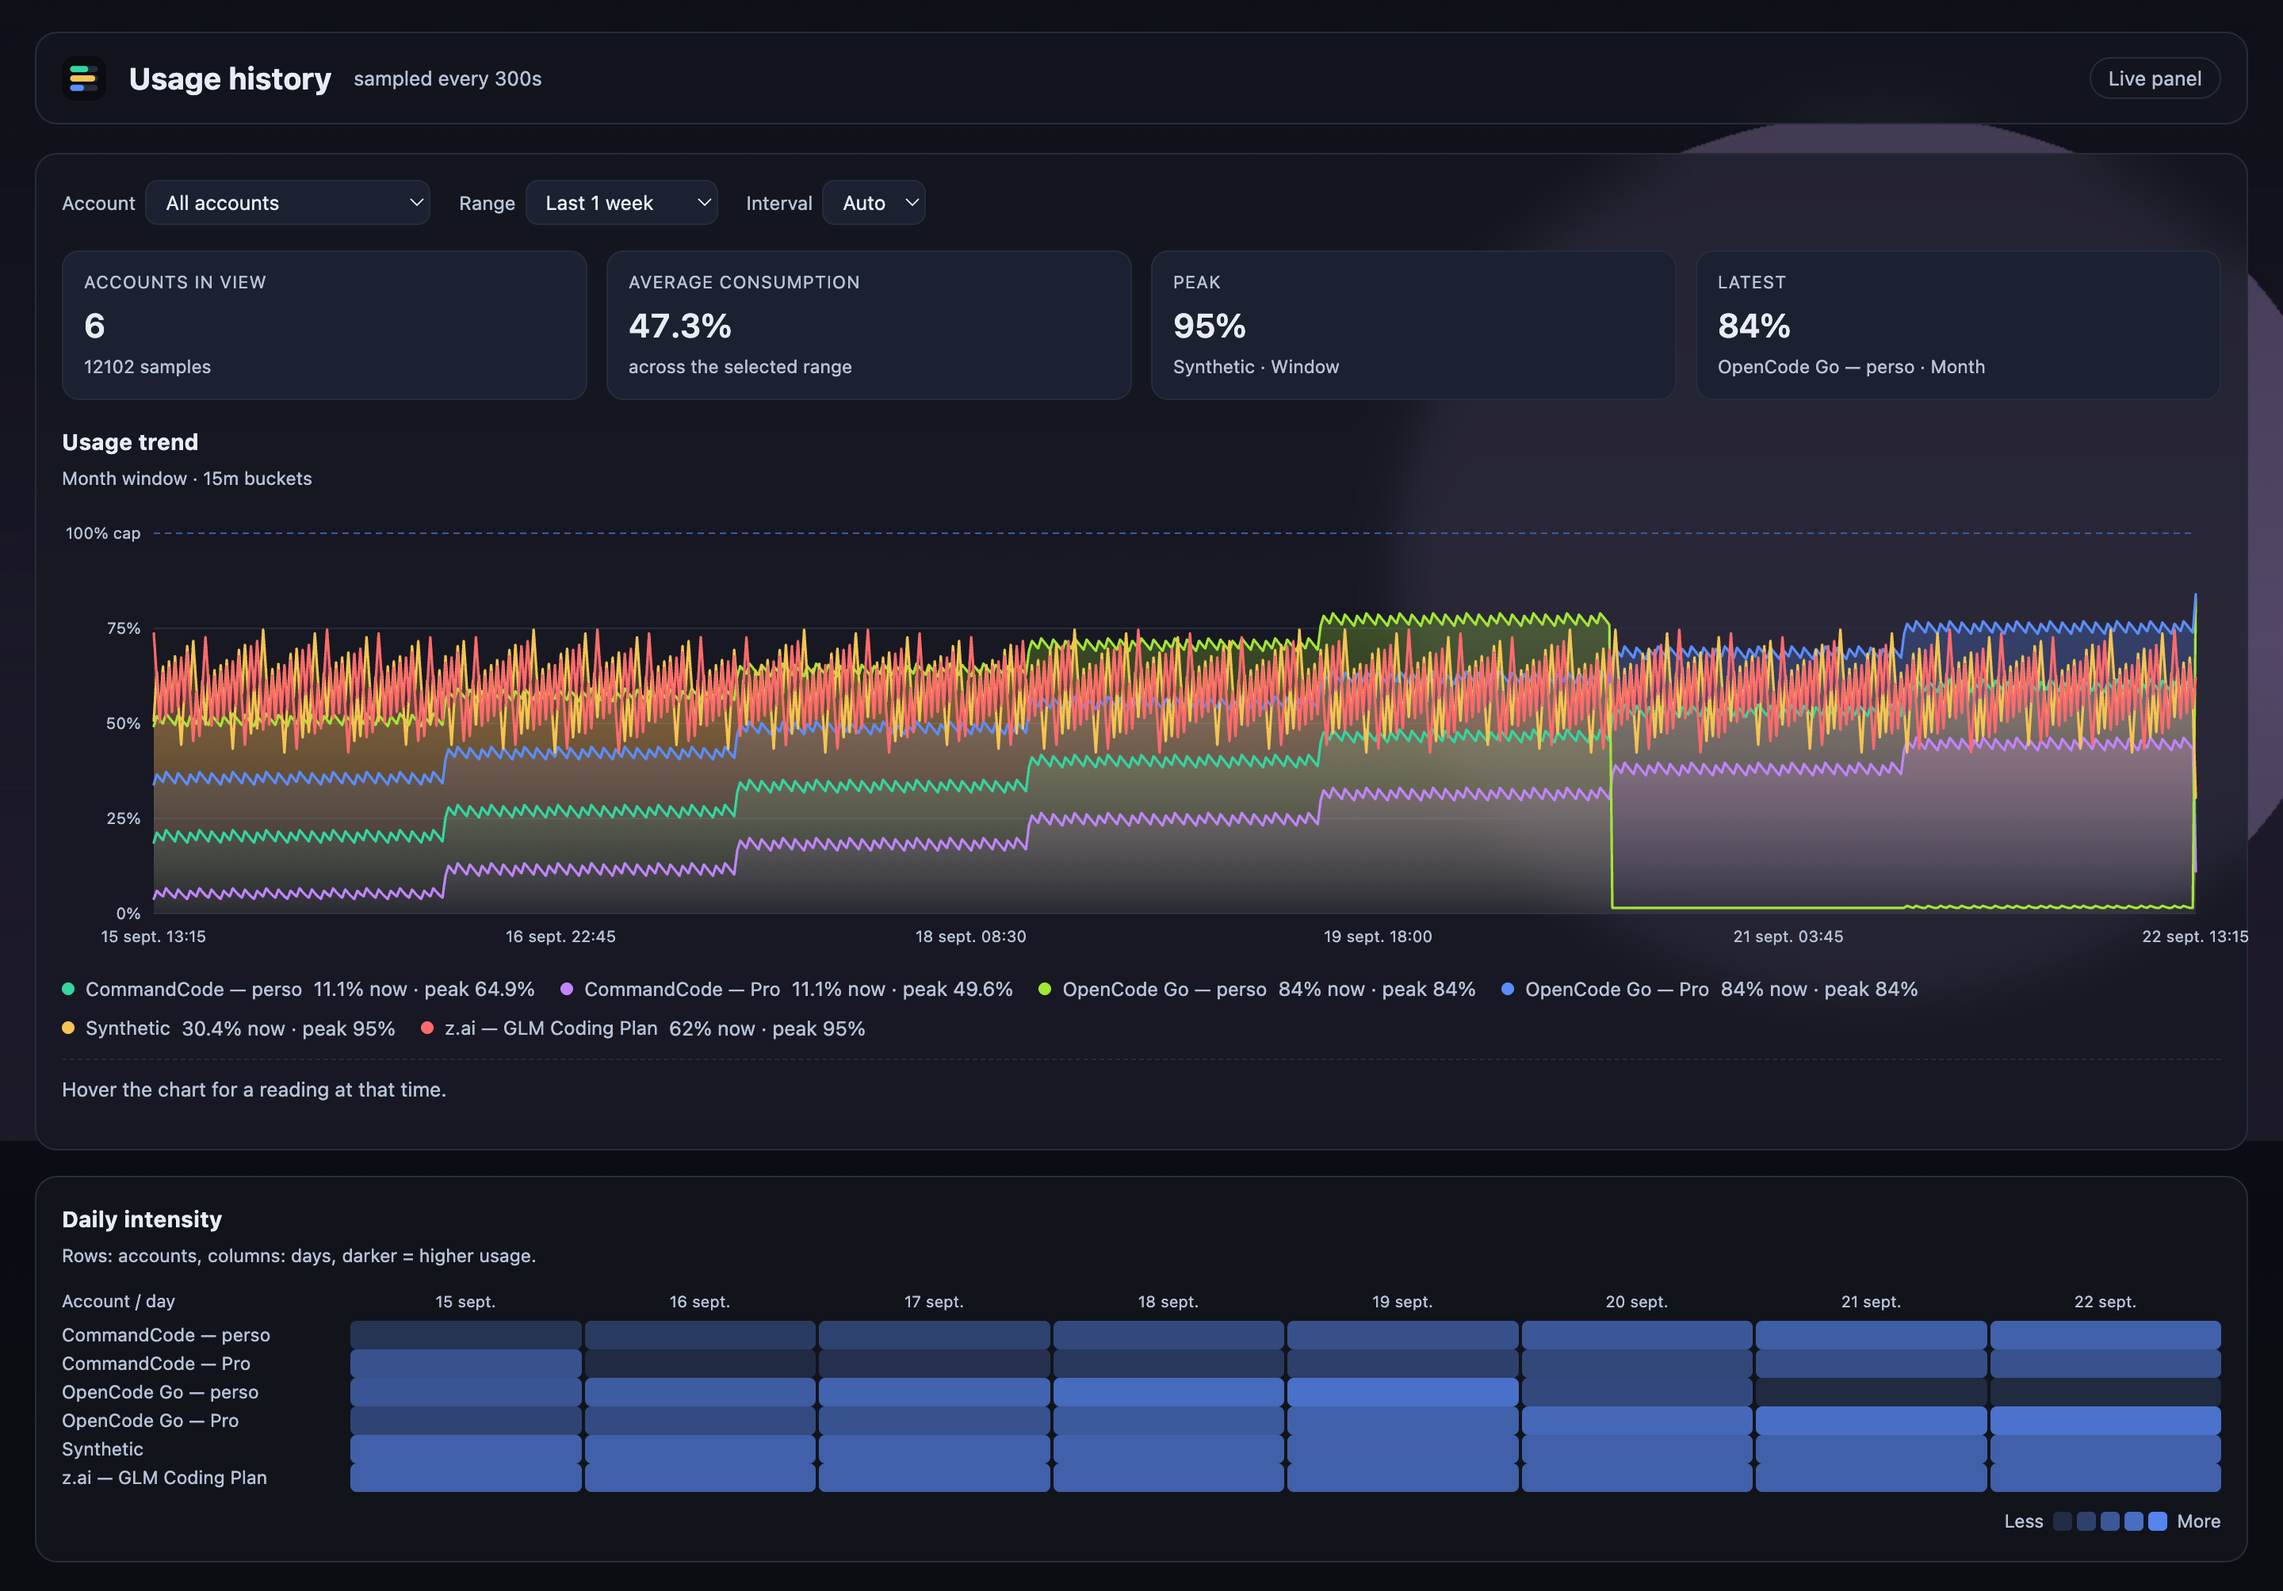
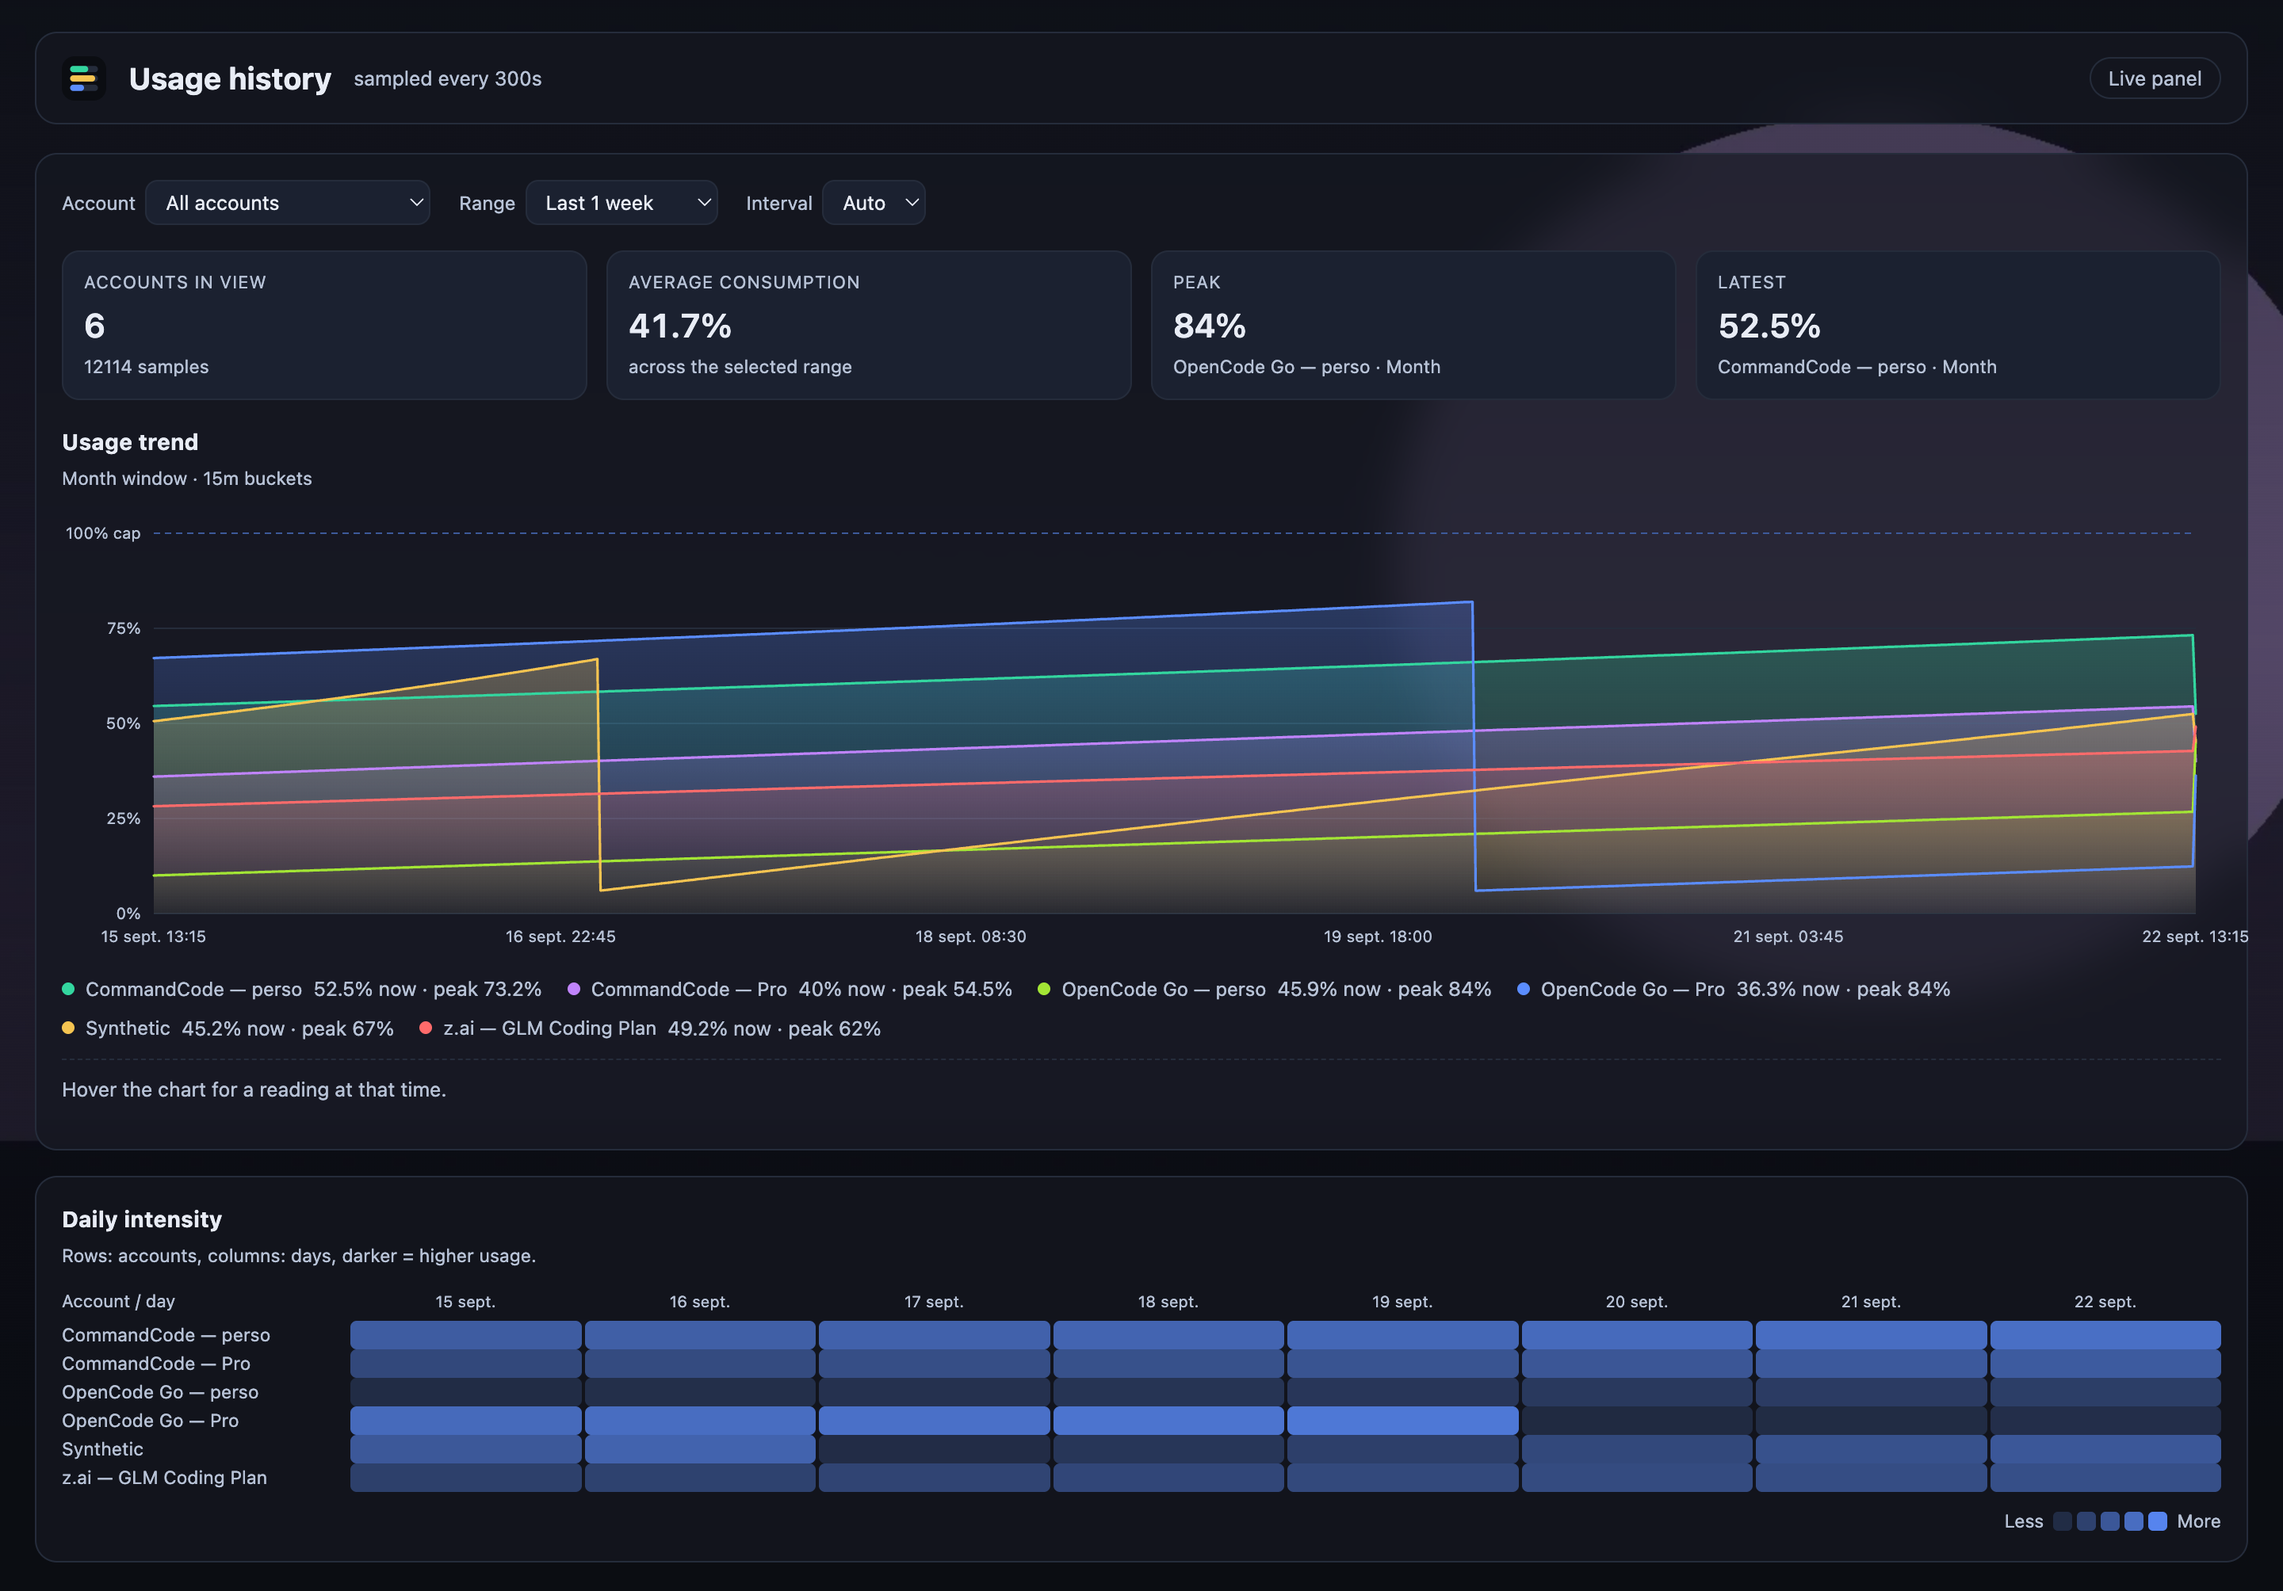
screenshot: seed a trend a plan could produce
The committed history capture drew a sawtooth on every line: 182 drops a day on a window that
renews once a month. It was the fixture, not the page. Each window's formula carried its own
sawtooth on top of the ramp — the standing one added `(step * 7) % 11`, a ten-point ripple with a
period of eleven samples, i.e. 55 minutes at the store's five-minute cadence. Measured on the
committed PNG: the drawn lines dipped a median of 15 px apart, 56 minutes at the axis scale, which
is the ripple's period, not usage.

A counter climbs between renewals, so the fixture now derives each window's period from its own
label (`label_seconds`, the page's own rule: 5 h, Week, Month), ramps monotonically inside it and
drops exactly once per renewal — 33 drops over seven days for a five-hour window, 1 for a month.
The accounts keep separate phases, so the store still differs day to day for the map.

Two guards, because every page-level check passed on the sawtooth:

* `fixture_shape_failures` counts the drops against the renewals the window's period allows and
  runs before the capture. Against the old fixture it fails loudly (786 drops over 34 renewals);
  against the new one it is clean.
* the page probe now measures how much of each drawn line rises (`getPointAtLength` sampled along
  the path) and fails the lowest line below 0.6. Run against the old fixture the same probe reports
  0.500-0.667 per line; against the new one, 0.883-1.000. Walking the drawn pixels of the two
[…]

diff --git a/tests/screenshot.py b/tests/screenshot.py
@@ -18,6 +18,7 @@ credential and no provider call is involved — the numbers are fixed, so the sc
 reproducible instead of drifting with live usage.
 """
 import json
+import math
 import os
 import re
 import shutil
@@ -89,25 +90,53 @@ def standing_label(accounts):
     return max(ranked)[1] if ranked else None
 
 
-def seeded_percent(window_index, day, step, account_index):
-    """One reading: three windows with three different natures, and days that differ by more than a
-    shade.
+def seeded_percent(window, stamp, account_index):
+    """One reading: a plan is consumed over its period and then renews, so every window climbs and
+    drops once per period — never a repeating ripple.
 
-    A plan is consumed over a period and then resets, so the standing window ramps and drops; the
-    weekly window saw-tooths every seven days; the shortest resets several times a day. The
-    amplitudes are tens of points, not two: the first version of this fixture moved a day by about
-    four percentage points, which under a shade that *is* the percentage is a map that looks the
-    same every day — and was committed as one.
+    The period comes from the window's own label (`label_seconds`, the page's own rule), so a five-hour
+    window renews several times a day, a weekly one once a week, the standing window once a month, and
+    each account's cycles start at another hour.
+
+    The first version instead added `(step * 7) % 11` to every window: a ten-point ripple with a period
+    of eleven samples, i.e. 55 minutes at the store's five-minute cadence. Read at the panel's own
+    resolution, a monthly window then dropped ~180 times a day and the committed picture was a sawtooth
+    no plan produces — the teeth a reader asked about. A counter only ever goes up between renewals.
     """
-    position = day + account_index * 3               # accounts are not in phase with each other
-    if window_index == 0:                            # a five-hour window: several resets a day
-        return min(96.0, 22.0 + ((position * 17 + step * 29) % 74))
-    if window_index == 1:                            # weekly: a ramp that resets every seven days
-        return min(97.0, (position % 7) * 13.0 + 4.0 + (step * 11) % 9)
-    # The standing window: a ramp that resets when the period rolls over, and a lighter account
-    # stays lighter than a heavier one on every day.
-    ramped = (position % 14) * 6.6 + (step * 7) % 11
-    return min(98.5, max(1.5, ramped - account_index * 4.5))
+    period = float(label_seconds(window.get("label") or "") or 30 * 86400)
+    own = stamp + account_index * 7 * 86400               # accounts are not in phase with each other
+    progress = (own % period) / period
+    # Monotone, and quickest in the middle of the period: usage accumulates, but a plan is rarely
+    # consumed at a constant rate.
+    ramp = progress - 0.14 * progress ** 3 * math.sin(math.pi * progress)
+    span = 88.0 - account_index * 5.0                     # a lighter account stays lighter, every day
+    renewed = 3.0 + (int(own // period) * 7 + account_index * 3) % 5
+    return min(98.5, max(1.0, renewed + span * ramp))
+
+
+def fixture_shape_failures(accounts, now_ts, drawn_seconds=7 * 86400, step_seconds=300):
+    """The fixture's own shape, checked where it lives: a counter climbs between renewals.
+
+    Written because the page-level checks all passed on a capture whose monthly window dropped ~180
+    times a day — a chart can be full of lines and still be a chart of nothing a plan does. The number
+    of renewals allowed comes from each window's own period, so the five-hour window keeps its several
+    resets a day and the monthly one is allowed exactly one.
+    """
+    failures = []
+    for index, account in enumerate(accounts):
+        for window in [w for w in (account.get("windows") or []) if w.get("kind") == "window"]:
+            period = float(label_seconds(window.get("label") or "") or 30 * 86400)
+            stamps = [now_ts - drawn_seconds + i * step_seconds
+                      for i in range(int(drawn_seconds // step_seconds))]
+            values = [seeded_percent(window, stamp, index) for stamp in stamps]
+            climbs = [b - a for a, b in zip(values, values[1:]) if b > a]
+            typical = sum(climbs) / len(climbs) if climbs else 0.0
+            drops = sum(1 for a, b in zip(values, values[1:]) if a - b > max(2.0, typical))
+            allowed = int(drawn_seconds / period) + 1
+            if drops > allowed:
+                failures.append("%s %s: %d drops over %d renewals"
+                                % (account["id"], window.get("label"), drops, allowed))
+    return failures
 
 
 def seed_history(path, accounts, now_ts=None):
@@ -146,8 +175,8 @@ def seed_history(path, accounts, now_ts=None):
                     "id": account["id"], "provider": account.get("provider"),
                     "label": account.get("label"), "state": "ok",
                     "windows": [{"key": w.get("key"), "label": w.get("label"), "kind": "window",
-                                 "percent": seeded_percent(position, day, step, index)}
-                                for position, w in enumerate(windows)],
+                                 "percent": seeded_percent(w, stamp, index)}
+                                for w in windows],
                 })
             if results:
                 history.record(results, config, now_ts=stamp)
@@ -528,7 +557,8 @@ def main():
     check("the providers publish windows to seed the store with", bool(published),
           "%d accounts with a window" % len(published))
     if published:
-        seeded = seed_history(history_path, published)
+        seed_now = int(time.time())
+        seeded = seed_history(history_path, published, now_ts=seed_now)
         counts = scalar = None
         if ROOT not in sys.path:
             sys.path.insert(0, ROOT)
@@ -541,6 +571,11 @@ def main():
             conn.close()
         check("the seeded store has history in it", (counts or 0) > 10 * len(published),
               "%s rows, %s series (config %s)" % (counts, scalar, seeded["sample_seconds"]))
+        # The fixture's own shape, checked where it lives rather than on the picture: every
+        # page-level check passed on a capture of a five-minute sawtooth, which is what shipped once.
+        shape = fixture_shape_failures(published, seed_now)
+        check("the seeded trend climbs between renewals and drops once per period", not shape,
+              "; ".join(shape[:3]))
 
     app = subprocess.Popen([sys.executable, os.path.join(ROOT, "app.py")], env=env,
                            stdout=subprocess.PIPE, stderr=subprocess.STDOUT, text=True)
@@ -859,6 +894,21 @@ def main():
                 fills: document.querySelectorAll('#chart svg linearGradient').length,
                 legend: document.querySelectorAll('#legend button').length,
                 shades: [...new Set(cells.map(c => c.style.background).filter(Boolean))].length,
+                rising: Array.from(document.querySelectorAll('#chart svg path'))
+                          .filter(p => p.getAttribute('stroke') !== 'none')
+                          .map(p => {
+                            const len = p.getTotalLength();
+                            if (!len) return 1;
+                            const ys = [];
+                            for (let i = 0; i <= 60; i++) ys.push(p.getPointAtLength(len * i / 60).y);
+                            let up = 0, moves = 0;
+                            for (let i = 1; i < ys.length; i++) {
+                              if (Math.abs(ys[i] - ys[i - 1]) < 0.01) continue;
+                              moves++;
+                              if (ys[i] < ys[i - 1]) up++;
+                            }
+                            return moves ? up / moves : 1;
+                          }),
                 off: status.hidden === false
               };
             })()""", returnByValue=True)
@@ -901,6 +951,13 @@ def main():
         # many distinct shades; a map that holds three is a map that cannot be read.
         check("the map's days differ by more than a shade",
               (state.get("shades") or 0) >= 5, "%s distinct shades" % state.get("shades"))
+        # A chart can hold a line per account and still be a chart of nothing a plan does: the capture
+        # that was committed once drew a five-minute ripple on a monthly window. A counter rises on
+        # nearly every step between renewals, so a drawn line that falls as often as it climbs is a
+        # fixture artefact, whichever page-level check else passes.
+        rising = [round(value, 3) for value in (state.get("rising") or [])]
+        check("the trend climbs between renewals rather than rippling",
+              bool(rising) and min(rising) >= 0.6, str(rising))
 
         # The range control, exercised — and this is where the first version of this capture went
         # wrong: it dispatched the change and waited only for the map's columns, then shot a chart
